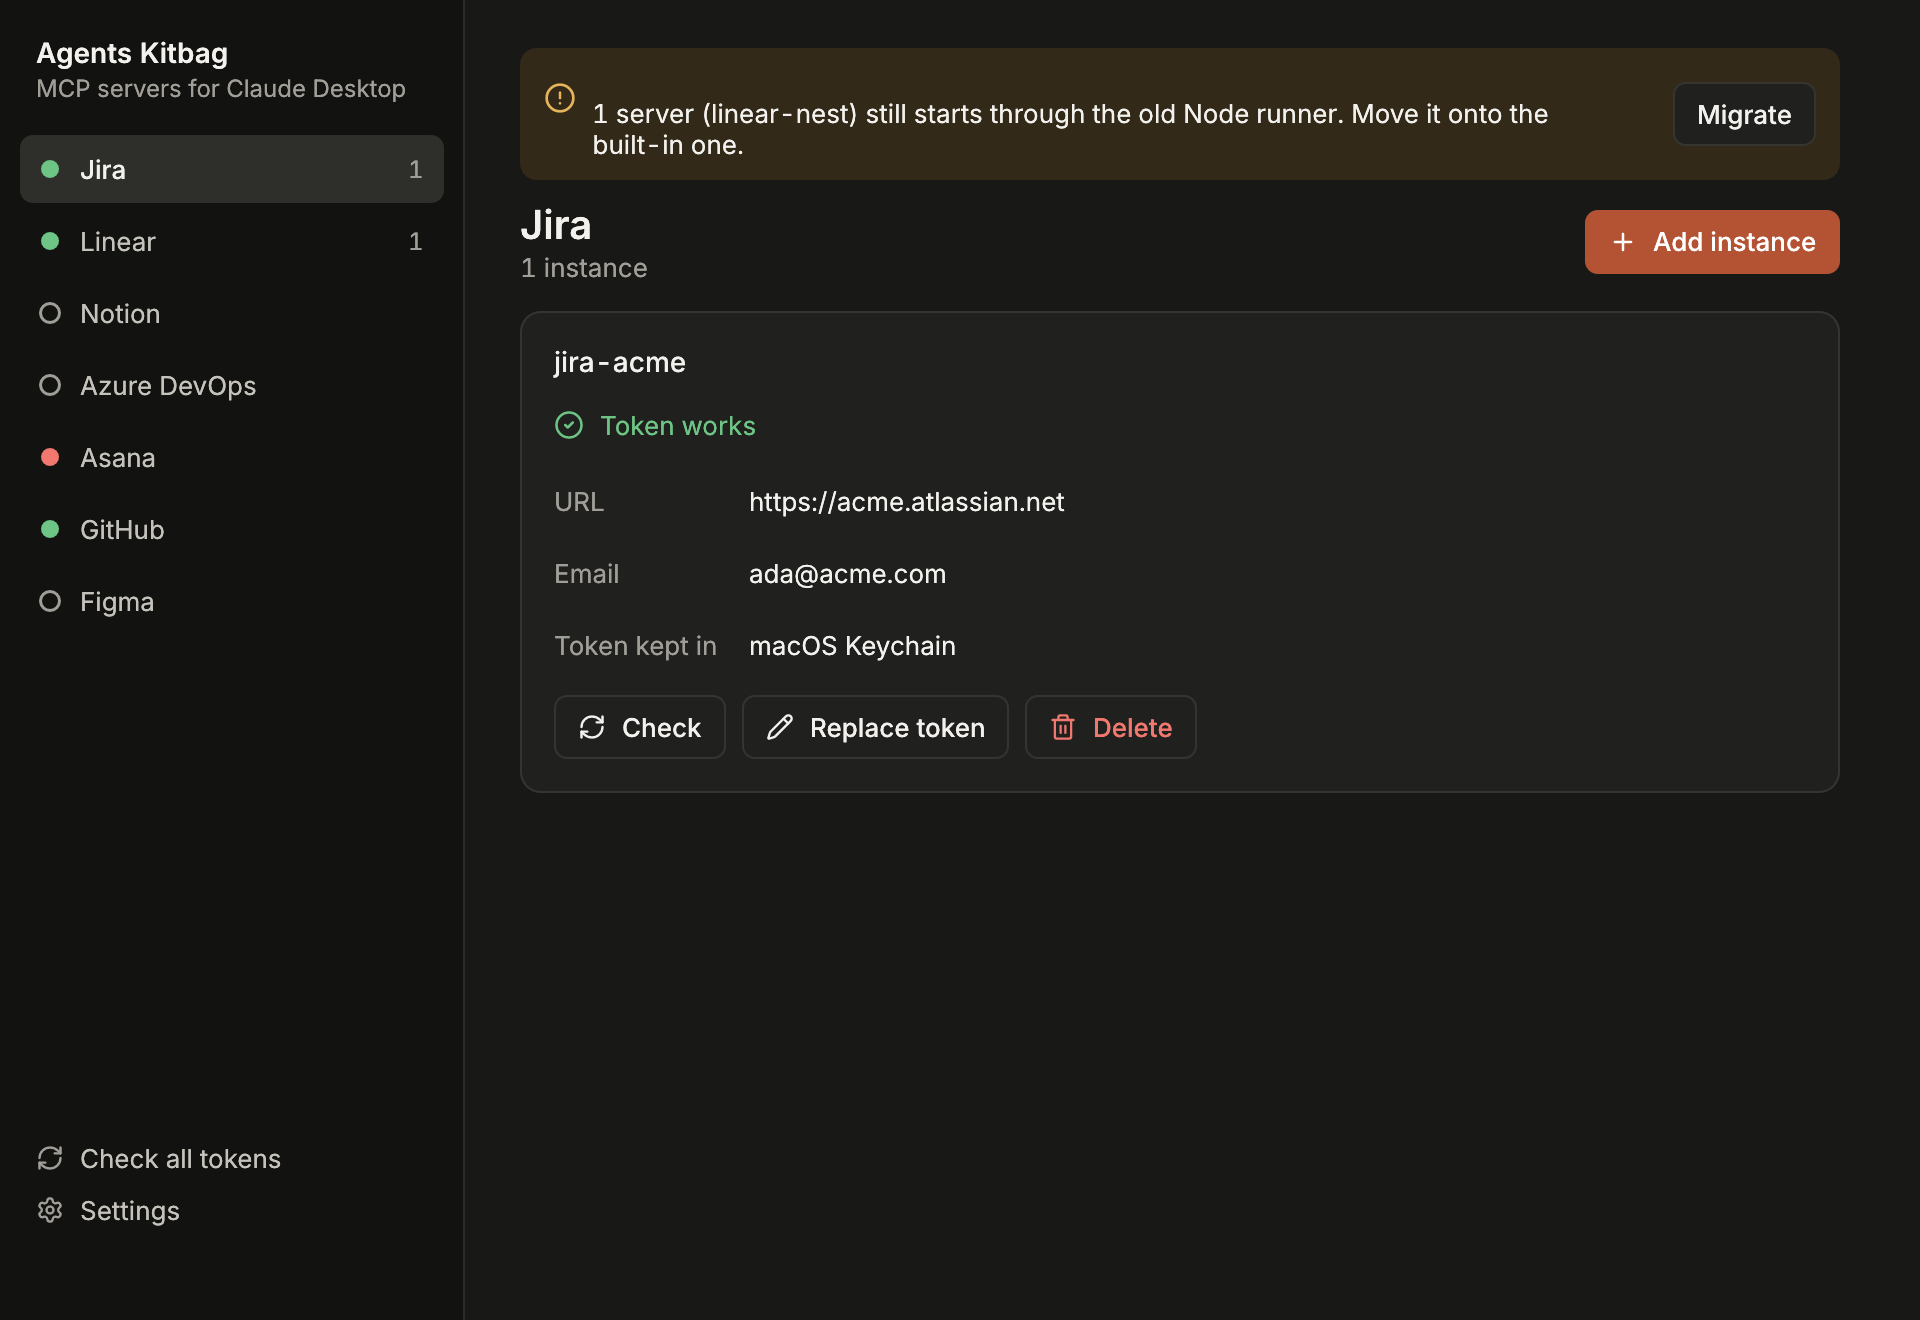
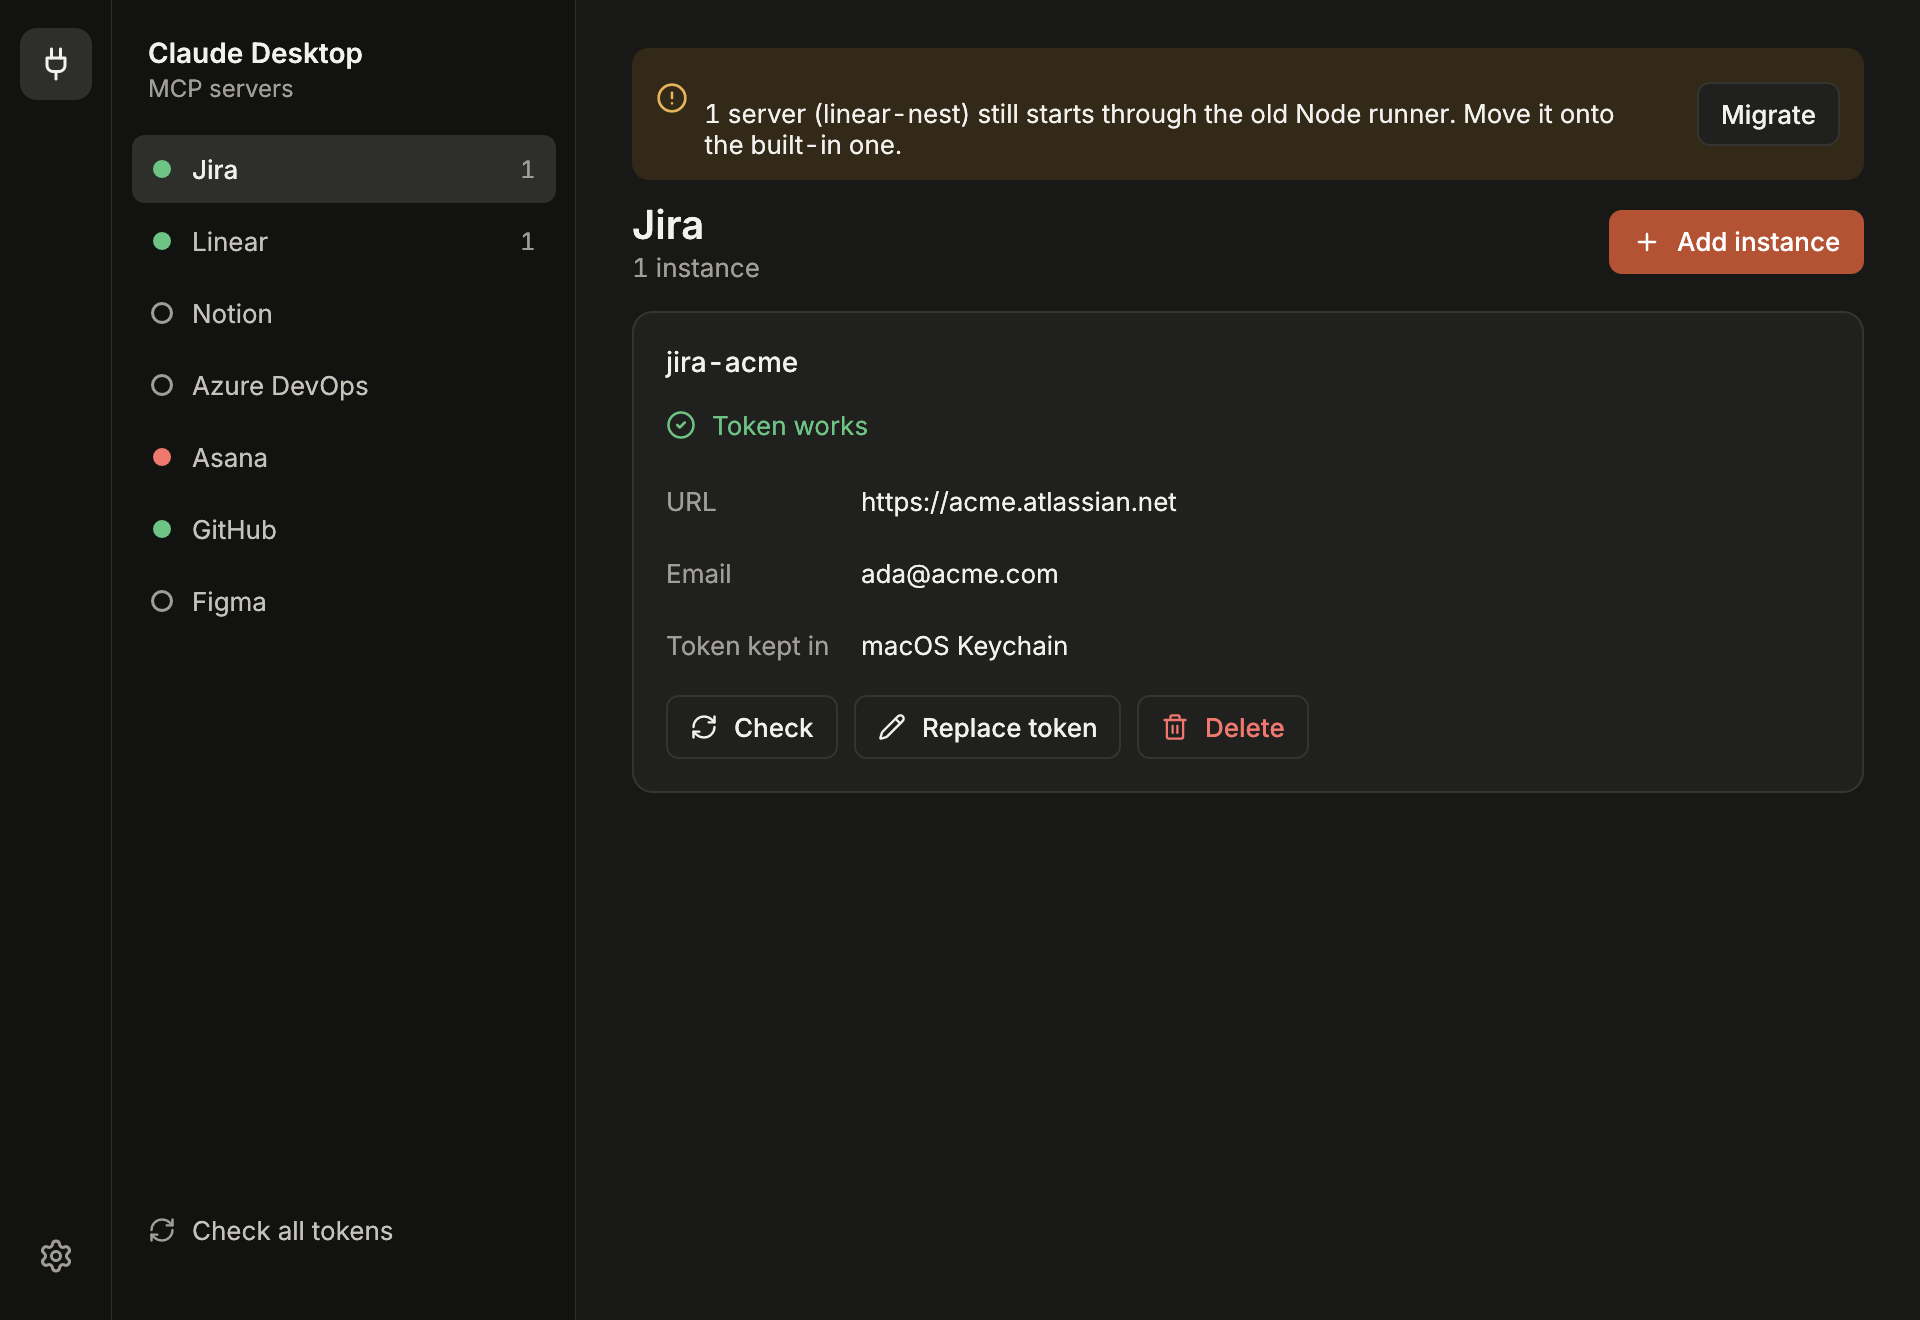
The window gets a rail of sections
The app will look after more than MCP servers, so the window is three
columns now: a rail with one icon for each section, the selected section's
list, and its detail. The settings moved to the bottom of the rail and take
the place of the list and the detail.

A section is a variant of ui::Section; MCP servers is the only one so far.
The list is headed by the assistant it belongs to.

diff --git a/crates/agents-kitbag-app/src/ui/mod.rs b/crates/agents-kitbag-app/src/ui/mod.rs
@@ -1,5 +1,9 @@
-//! The window: a sidebar of integrations and, beside it, the selected one's
-//! servers, the form that sets one up, or the settings.
+//! The window, in three columns: a rail with one icon for each section, the
+//! selected section's list, and what is selected in it. The settings take the
+//! place of the last two.
+//!
+//! A new section is a variant of [`Section`], a line in [`Section::ALL`], and
+//! an arm for its list and its detail in [`show`].
 //!
 //! Views draw a [`Snapshot`] and return [`Command`]s. They never wait.
 
@@ -10,13 +14,14 @@ use agents_kitbag_core::storage::StoreChoice;
 use eframe::egui::{self, Margin, Stroke, Ui, UiBuilder, vec2};
 
 use crate::snapshot::Snapshot;
-use crate::theme::palette;
+use crate::theme::{Icon, palette};
 use crate::updates::{Checked, Offer};
 use crate::worker::Command;
 
 mod detail;
 mod form;
 pub mod kit;
+mod rail;
 mod settings;
 mod sidebar;
 #[cfg(test)]
@@ -24,13 +29,39 @@ mod tests;
 
 use kit::{Banner, Kind};
 
+const RAIL: f32 = 56.0;
 const SIDEBAR: f32 = 232.0;
 /// Text is easier to read in a column than across a wide window.
 const COLUMN: f32 = 660.0;
 
+/// A part of what the app looks after for an assistant.
+#[derive(Clone, Copy, Debug, PartialEq, Eq)]
+pub enum Section {
+    /// The MCP servers in the assistant's config.
+    Servers,
+}
+
+impl Section {
+    /// The sections in the rail, top to bottom.
+    pub const ALL: &[Section] = &[Section::Servers];
+
+    /// What the section is called in its list's heading, and to a screen reader.
+    pub fn name(self) -> &'static str {
+        match self {
+            Section::Servers => "MCP servers",
+        }
+    }
+
+    pub fn icon(self) -> Icon {
+        match self {
+            Section::Servers => Icon::Plug,
+        }
+    }
+}
+
 #[derive(Clone, Copy, Debug, PartialEq, Eq)]
 pub enum Screen {
-    Integration,
+    Section(Section),
     Settings,
 }
 
@@ -106,7 +137,7 @@ impl Default for State {
     fn default() -> Self {
         Self {
             selected: integrations::ALL[0].key,
-            screen: Screen::Integration,
+            screen: Screen::Section(Section::Servers),
             form: None,
             confirm: None,
             next_save: 1,
@@ -139,7 +170,12 @@ impl State {
 
     fn select(&mut self, key: &'static str) {
         self.selected = key;
-        self.screen = Screen::Integration;
+        self.open(Screen::Section(Section::Servers));
+    }
+
+    /// Goes to a screen, leaving behind a form or a question on the old one.
+    fn open(&mut self, screen: Screen) {
+        self.screen = screen;
         self.form = None;
         self.confirm = None;
     }
@@ -169,18 +205,31 @@ pub fn show(ui: &mut Ui, snapshot: &Snapshot, state: &mut State) -> Vec<Command>
 
     let p = palette(ui.ctx());
     let full = ui.max_rect();
-    let (side, main) = full.split_left_right_at_x(full.left() + SIDEBAR.min(full.width() * 0.4));
-    ui.painter().rect_filled(side, 0, p.sidebar_bg);
-    ui.painter().rect_filled(main, 0, p.bg);
+    let (rail, rest) = full.split_left_right_at_x(full.left() + RAIL);
+    ui.painter().rect_filled(rail, 0, p.sidebar_bg);
     ui.painter()
-        .vline(side.right(), side.y_range(), Stroke::new(1.0, p.border));
-
+        .vline(rail.right(), rail.y_range(), Stroke::new(1.0, p.border));
     ui.scope_builder(
-        UiBuilder::new().max_rect(side.shrink2(vec2(10.0, 14.0))),
-        |ui| {
-            sidebar::show(ui, snapshot, state, &mut out);
-        },
+        UiBuilder::new().max_rect(rail.shrink2(vec2(0.0, 14.0))),
+        |ui| rail::show(ui, state),
     );
+
+    let main = match state.screen {
+        Screen::Section(Section::Servers) => {
+            let (side, main) =
+                rest.split_left_right_at_x(rest.left() + SIDEBAR.min(rest.width() * 0.4));
+            ui.painter().rect_filled(side, 0, p.sidebar_bg);
+            ui.painter()
+                .vline(side.right(), side.y_range(), Stroke::new(1.0, p.border));
+            ui.scope_builder(
+                UiBuilder::new().max_rect(side.shrink2(vec2(10.0, 14.0))),
+                |ui| sidebar::show(ui, snapshot, state, &mut out),
+            );
+            main
+        }
+        Screen::Settings => rest,
+    };
+    ui.painter().rect_filled(main, 0, p.bg);
 
     let footer_height = footer_height(snapshot);
     let (content, footer) = main.split_top_bottom_at_y(main.bottom() - footer_height);
@@ -197,10 +246,10 @@ pub fn show(ui: &mut Ui, snapshot: &Snapshot, state: &mut State) -> Vec<Command>
                         banners(ui, snapshot, &mut out);
                         match (state.screen, state.form.is_some()) {
                             (Screen::Settings, _) => settings::show(ui, snapshot, state, &mut out),
-                            (Screen::Integration, true) => {
+                            (Screen::Section(Section::Servers), true) => {
                                 form::show(ui, snapshot, state, &mut out)
                             }
-                            (Screen::Integration, false) => {
+                            (Screen::Section(Section::Servers), false) => {
                                 detail::show(ui, snapshot, state, &mut out)
                             }
                         }

diff --git a/crates/agents-kitbag-app/src/ui/sidebar.rs b/crates/agents-kitbag-app/src/ui/sidebar.rs
@@ -1,11 +1,12 @@
-//! The list of integrations, each with a mark for the state of its tokens.
+//! The MCP servers section's list: the assistant they belong to, and each
+//! integration with a mark for the state of its tokens.
 
 use agents_kitbag_core::health::Status;
 use agents_kitbag_core::integrations;
 use eframe::egui::{self, Align2, Color32, Id, Response, Sense, Stroke, Ui, vec2};
 
 use super::kit::{self, Kind};
-use super::{Screen, State};
+use super::{Screen, Section, State};
 use crate::snapshot::{HealthView, IntegrationView, Snapshot};
 use crate::theme::{Icon, palette};
 use crate::worker::Command;
@@ -117,10 +118,10 @@ pub fn show(ui: &mut Ui, snapshot: &Snapshot, state: &mut State, out: &mut Vec<C
     ui.horizontal(|ui| {
         ui.add_space(8.0);
         ui.vertical(|ui| {
-            kit::text(ui, "Agents Kitbag", kit::semibold(kit::BASE), p.text);
+            kit::text(ui, "Claude Desktop", kit::semibold(kit::BASE), p.text);
             kit::text(
                 ui,
-                "MCP servers for Claude Desktop",
+                Section::Servers.name(),
                 kit::regular(kit::XS),
                 p.text_tertiary,
             );
@@ -132,7 +133,8 @@ pub fn show(ui: &mut Ui, snapshot: &Snapshot, state: &mut State, out: &mut Vec<C
         let view = snapshot.integration(integration.key);
         let mark = view.map_or(Mark::NotConfigured, mark);
         let count = view.map_or(0, |v| v.instances.len());
-        let selected = state.screen == Screen::Integration && state.selected == integration.key;
+        let selected =
+            state.screen == Screen::Section(Section::Servers) && state.selected == integration.key;
         let (rect, response) = row(
             ui,
             Id::new(("integration", integration.key)),
@@ -174,7 +176,7 @@ pub fn show(ui: &mut Ui, snapshot: &Snapshot, state: &mut State, out: &mut Vec<C
     }
 
     // The actions sit at the bottom of the window.
-    let actions = 2.0 * (ROW + 2.0) + state.update.as_ref().map_or(0.0, |_| 84.0) + 12.0;
+    let actions = ROW + 2.0 + state.update.as_ref().map_or(0.0, |_| 84.0) + 12.0;
     let gap = (ui.available_height() - actions).max(12.0);
     ui.add_space(gap);
 
@@ -218,17 +220,5 @@ pub fn show(ui: &mut Ui, snapshot: &Snapshot, state: &mut State, out: &mut Vec<C
     );
     if response.clicked() && any_configured {
         out.push(Command::CheckAll);
-    }
-
-    let selected = state.screen == Screen::Settings;
-    let (rect, response) = row(ui, Id::new("settings"), "Settings", "Settings", selected);
-    ui.put(
-        egui::Rect::from_center_size(rect.left_center() + vec2(15.0, 0.0), vec2(14.0, 14.0)),
-        Icon::Settings.image(p.text_tertiary, 14.0),
-    );
-    if response.clicked() {
-        state.screen = Screen::Settings;
-        state.form = None;
-        state.confirm = None;
     }
 }

diff --git a/crates/agents-kitbag-app/src/ui/rail.rs b/crates/agents-kitbag-app/src/ui/rail.rs
@@ -1,0 +1,77 @@
+//! The rail: one icon for each section, and the settings at the bottom.
+
+use eframe::egui::{self, Color32, Id, Sense, Stroke, Ui, vec2};
+
+use super::{Screen, Section, State};
+use crate::theme::{Icon, palette};
+
+const BUTTON: f32 = 36.0;
+const ICON: f32 = 18.0;
+
+/// A square button that shows where the window is. Returns whether it was
+/// clicked.
+fn button(ui: &mut Ui, id: Id, icon: Icon, name: &str, selected: bool) -> bool {
+    let p = palette(ui.ctx());
+    let (slot, _) = ui.allocate_exact_size(vec2(ui.available_width(), BUTTON), Sense::hover());
+    let rect = egui::Rect::from_center_size(slot.center(), vec2(BUTTON, BUTTON));
+    let response = ui
+        .interact(rect, id, Sense::click())
+        .on_hover_cursor(egui::CursorIcon::PointingHand)
+        .on_hover_text(name);
+    let described = name.to_owned();
+    response.widget_info(move || {
+        egui::WidgetInfo::selected(egui::WidgetType::Button, true, selected, &described)
+    });
+    let fill = if selected {
+        p.selected_bg
+    } else if response.hovered() {
+        p.hover_bg
+    } else {
+        Color32::TRANSPARENT
+    };
+    ui.painter().rect_filled(rect, 8, fill);
+    if response.has_focus() {
+        ui.painter().rect_stroke(
+            rect,
+            8,
+            Stroke::new(1.5, p.accent),
+            egui::StrokeKind::Inside,
+        );
+    }
+    let color = if selected { p.text } else { p.text_tertiary };
+    ui.put(
+        egui::Rect::from_center_size(rect.center(), vec2(ICON, ICON)),
+        icon.image(color, ICON),
+    );
+    response.clicked()
+}
+
+pub fn show(ui: &mut Ui, state: &mut State) {
+    ui.spacing_mut().item_spacing.y = 6.0;
+    for section in Section::ALL {
+        let selected = state.screen == Screen::Section(*section);
+        if button(
+            ui,
+            Id::new(("section", section.name())),
+            section.icon(),
+            section.name(),
+            selected,
+        ) {
+            state.open(Screen::Section(*section));
+        }
+    }
+
+    // The settings sit at the bottom of the window.
+    let gap = (ui.available_height() - BUTTON).max(6.0);
+    ui.add_space(gap);
+    let selected = state.screen == Screen::Settings;
+    if button(
+        ui,
+        Id::new("settings"),
+        Icon::Settings,
+        "Settings",
+        selected,
+    ) {
+        state.open(Screen::Settings);
+    }
+}

diff --git a/crates/agents-kitbag-app/src/ui/tests.rs b/crates/agents-kitbag-app/src/ui/tests.rs
@@ -10,11 +10,12 @@ use agents_kitbag_core::gh;
 use agents_kitbag_core::platform::Os;
 use agents_kitbag_core::setup::Done;
 use agents_kitbag_core::storage::StoreChoice;
+use eframe::egui::accesskit::Role;
 use eframe::egui::{self, Event, Id, Modifiers, PointerButton, vec2};
 use egui_kittest::Harness;
 use egui_kittest::kittest::{NodeT, Queryable};
 
-use super::{Screen, State, form};
+use super::{Screen, Section, State, form};
 use crate::snapshot::{SaveOutcome, Snapshot};
 use crate::worker::{Command, Worker};
 use crate::{demo, theme};
@@ -125,6 +126,32 @@ fn the_sidebar_says_how_each_integration_is_doing() {
     ] {
         assert!(has(&h, label), "{label}");
     }
+}
+
+#[test]
+fn the_rail_goes_between_the_sections_and_the_settings() {
+    let mut h = rig(demo_snapshot());
+    assert!(has(&h, "Claude Desktop"));
+    click(&mut h, "Settings");
+    assert_eq!(h.state().ui.screen, Screen::Settings);
+    // The settings take the place of the section's list.
+    assert!(!has(&h, "Jira, working"));
+    assert!(!has(&h, "Check all tokens"));
+
+    h.get_by_role_and_label(Role::Button, "MCP servers").click();
+    step(&mut h);
+    assert_eq!(h.state().ui.screen, Screen::Section(Section::Servers));
+    assert!(has(&h, "Jira, working"));
+}
+
+#[test]
+fn leaving_for_the_settings_closes_an_open_form() {
+    let mut h = rig(demo_snapshot());
+    click(&mut h, "Notion, not configured");
+    click(&mut h, "Add workspace");
+    assert!(h.state().ui.form.is_some());
+    click(&mut h, "Settings");
+    assert!(h.state().ui.form.is_none());
 }
 
 #[test]

diff --git a/crates/agents-kitbag-app/src/theme.rs b/crates/agents-kitbag-app/src/theme.rs
@@ -122,6 +122,7 @@ fastframe_icons::icons! {
         Info => lucide "info",
         Lock => lucide "lock",
         Pencil => lucide "pencil",
+        Plug => "plug",
         Plus => lucide "plus",
         Refresh => lucide "refresh-cw",
         Settings => lucide "settings",

diff --git a/README.md b/README.md
@@ -8,10 +8,11 @@ egui and [fastframe](https://github.com/crmne/fastframe).
 
 <picture>
   <source media="(prefers-color-scheme: light)" srcset="docs/screenshots/window-light.png">
-  <img src="docs/screenshots/window-dark.png" alt="Agents Kitbag: the integrations in a sidebar, and a Jira server with a working token kept in the Keychain">
+  <img src="docs/screenshots/window-dark.png" alt="Agents Kitbag: a rail of sections, the integrations, and a Jira server with a working token kept in the Keychain">
 </picture>
 
-A sidebar lists the integrations with a mark for the state of their tokens. The
+A rail on the left holds the sections (MCP servers today) and the settings.
+Beside it, the integrations are listed with a mark for the state of their tokens. The
 pane beside it shows each configured server, where its token is kept and
 whether it still works, and the form that sets one up.
 

diff --git a/AGENTS.md b/AGENTS.md
@@ -23,6 +23,9 @@ their tokens, and offers to move servers off `node .../secret-runner.js`.
 - `agents-kitbag-app`: `ui/` draws a `Snapshot` and returns `Command`s; it never
   waits. `worker.rs` runs every command on one thread and publishes the next
   snapshot. Do not call `agents-kitbag-core` from a view.
+- The window is three columns: a rail of sections, the selected section's
+  list, and its detail. A new section is a variant of `ui::Section`, a line
+  in `Section::ALL`, and an arm for its list and detail in `ui::show`.
 - Tokens travel as `Secret`, which never prints, and reach external commands
   through stdin, never through arguments. Never log a token.
 - A store that refuses a token is an error shown in the form. Nothing falls
